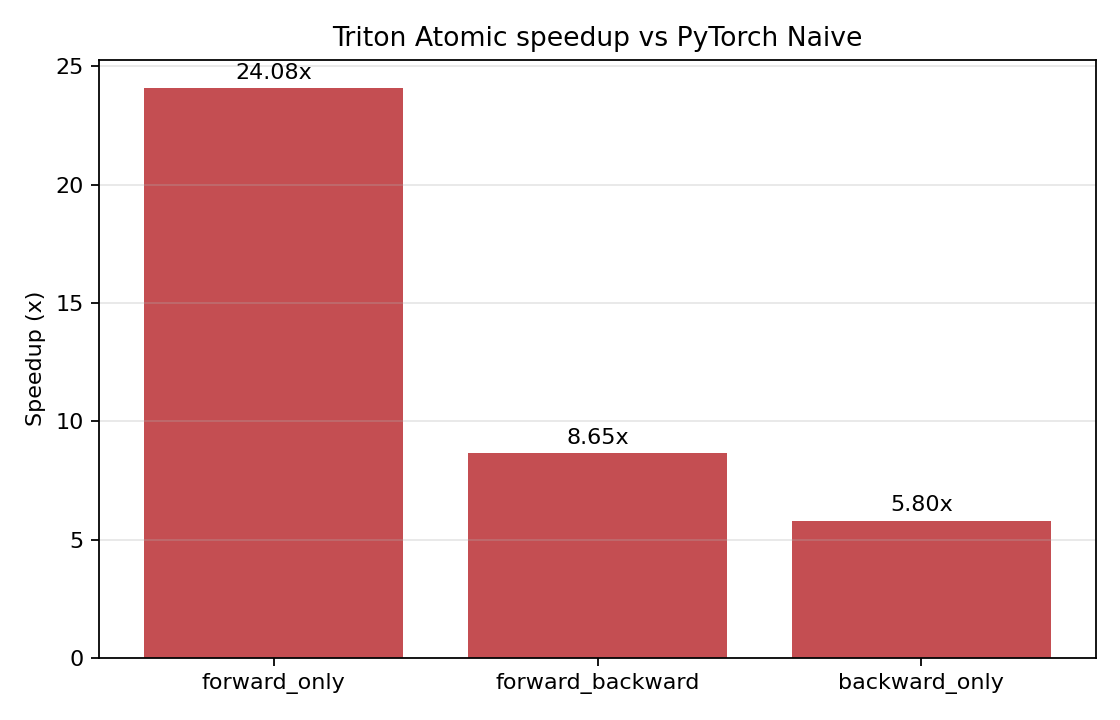
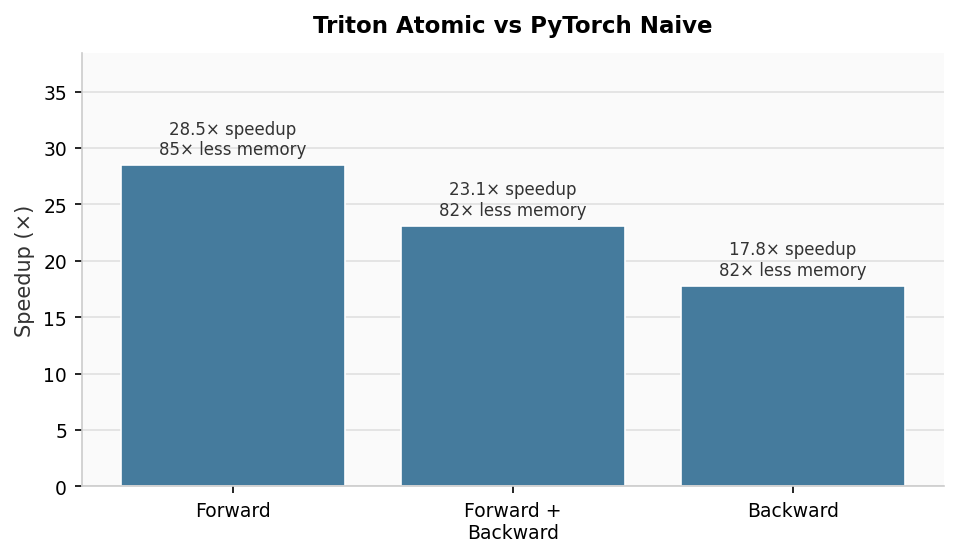
added exact quantity/log scale to plots and combined 3 plots to 1

diff --git a/plot_benchmark_results.py b/plot_benchmark_results.py
@@ -1,64 +1,238 @@
-"""Generate PNG charts for BENCHMARK_README.md from the reported T4 results."""
+"""Generate PNG charts for README.md from the reported T4 benchmark results."""
 
 import matplotlib.pyplot as plt
 import numpy as np
 
 MODES = ["forward_only", "forward_backward", "backward_only"]
-PYTORCH_MS = [38.26, 93.22, 55.51]
-TRITON_MS = [1.59, 10.78, 9.57]
-PYTORCH_GB = [2.04, 3.54, 3.54]
-TRITON_GB = [0.024, 0.044, 0.044]
-SPEEDUP = [24.08, 8.65, 5.80]
+MODE_LABELS = ["Forward", "Forward +\nBackward", "Backward"]
+PYTORCH_MS = [38.2578, 93.2606, 55.3403]
+TRITON_MS = [1.3437, 4.0357, 3.1075]
+PYTORCH_GB = [2.0374, 3.5432, 3.5432]
+TRITON_GB = [0.0239, 0.0435, 0.0435]
+SPEEDUP = [28.47, 23.11, 17.81]
+MEMORY_SAVING = [85.15, 81.53, 81.53]
+
+PYTORCH_COLOR = "#E76F51"
+TRITON_COLOR = "#2A9D8F"
+SPEEDUP_COLOR = "#457B9D"
+
+STYLE = {
+    "figure.facecolor": "white",
+    "axes.facecolor": "#FAFAFA",
+    "axes.edgecolor": "#CCCCCC",
+    "axes.labelcolor": "#333333",
+    "axes.titleweight": "bold",
+    "axes.titlesize": 11,
+    "axes.labelsize": 10,
+    "xtick.labelsize": 9,
+    "ytick.labelsize": 9,
+    "legend.fontsize": 9,
+    "grid.color": "#DDDDDD",
+    "grid.linestyle": "-",
+    "grid.linewidth": 0.8,
+    "font.family": "sans-serif",
+}
 
 
-def plot_grouped_bars(labels, series, ylabel, title, filename, colors):
+def _style_axes(ax):
+    ax.set_axisbelow(True)
+    ax.grid(axis="y", alpha=0.9)
+    ax.spines["top"].set_visible(False)
+    ax.spines["right"].set_visible(False)
+
+
+def _annotate_bars(ax, bars, values, fmt, y_offset=0.02, log_scale=False):
+    for bar, value in zip(bars, values):
+        height = bar.get_height()
+        if log_scale:
+            y = height * (1 + y_offset)
+        else:
+            y = height + y_offset
+        ax.text(
+            bar.get_x() + bar.get_width() / 2,
+            y,
+            fmt.format(value),
+            ha="center",
+            va="bottom",
+            fontsize=8,
+            color="#333333",
+        )
+
+
+def plot_grouped_bars(labels, series, ylabel, title, filename, colors, log_scale=False):
     x = np.arange(len(labels))
-    width = 0.35
-    fig, ax = plt.subplots(figsize=(8, 4.5))
+    width = 0.36
+    fig, ax = plt.subplots(figsize=(6.5, 3.8))
+    bars_by_series = []
     for idx, (name, values) in enumerate(series.items()):
         offset = (idx - 0.5) * width
-        ax.bar(x + offset, values, width, label=name, color=colors[idx])
+        bars = ax.bar(x + offset, values, width, label=name, color=colors[idx], edgecolor="white", linewidth=0.8)
+        bars_by_series.append((bars, values))
     ax.set_xticks(x)
     ax.set_xticklabels(labels)
     ax.set_ylabel(ylabel)
-    ax.set_title(title)
-    ax.legend()
-    ax.grid(axis="y", alpha=0.3)
+    ax.set_title(title, pad=10)
+    if log_scale:
+        ax.set_yscale("log")
+    _style_axes(ax)
+    ax.legend(frameon=True, facecolor="white", edgecolor="#DDDDDD")
+    for bars, values in bars_by_series:
+        fmt = "{:.2f}" if max(values) < 10 else "{:.1f}"
+        _annotate_bars(ax, bars, values, fmt, y_offset=0.08 if log_scale else 0.02, log_scale=log_scale)
     fig.tight_layout()
-    fig.savefig(filename, dpi=160)
+    fig.savefig(filename, dpi=150, bbox_inches="tight")
+    plt.close(fig)
+    print(f"Wrote {filename}")
+
+
+def plot_speedup(labels, values, memory_saving, filename):
+    fig, ax = plt.subplots(figsize=(6.5, 3.8))
+    bars = ax.bar(labels, values, color=SPEEDUP_COLOR, edgecolor="white", linewidth=0.8)
+    ax.set_ylabel("Speedup (×)")
+    ax.set_title("Triton Atomic vs PyTorch Naive", pad=10)
+    _style_axes(ax)
+    for bar, speedup, mem in zip(bars, values, memory_saving):
+        ax.text(
+            bar.get_x() + bar.get_width() / 2,
+            bar.get_height() + 0.6,
+            f"{speedup:.1f}× speedup\n{mem:.0f}× less memory",
+            ha="center",
+            va="bottom",
+            fontsize=8,
+            color="#333333",
+        )
+    ax.set_ylim(0, max(values) * 1.35)
+    fig.tight_layout()
+    fig.savefig(filename, dpi=150, bbox_inches="tight")
+    plt.close(fig)
+    print(f"Wrote {filename}")
+
+
+def _format_ms(value):
+    return f"{value:.1f} ms" if value >= 10 else f"{value:.2f} ms"
+
+
+def _format_gb(value):
+    return f"{value:.2f} GB" if value >= 0.1 else f"{value:.3f} GB"
+
+
+def _plot_combined_grouped(ax, x, width, pytorch_values, triton_values, title, ylabel, log_scale=False):
+    pytorch_bars = ax.bar(
+        x - width / 2,
+        pytorch_values,
+        width,
+        label="PyTorch Naive",
+        color=PYTORCH_COLOR,
+        edgecolor="white",
+    )
+    triton_bars = ax.bar(
+        x + width / 2,
+        triton_values,
+        width,
+        label="Triton Atomic",
+        color=TRITON_COLOR,
+        edgecolor="white",
+    )
+    if log_scale:
+        ax.set_yscale("log")
+    ax.set_title(title, pad=8)
+    ax.set_ylabel(ylabel)
+    _style_axes(ax)
+    ax.set_xticks(x)
+    ax.set_xticklabels(MODE_LABELS)
+    ax.legend(loc="upper left", frameon=True, facecolor="white", edgecolor="#DDDDDD", fontsize=8)
+
+    for bars, values, fmt in (
+        (pytorch_bars, pytorch_values, _format_ms if "ms" in ylabel else _format_gb),
+        (triton_bars, triton_values, _format_ms if "ms" in ylabel else _format_gb),
+    ):
+        for bar, value in zip(bars, values):
+            height = bar.get_height()
+            y = height * 1.15 if log_scale else height + (ax.get_ylim()[1] - ax.get_ylim()[0]) * 0.02
+            ax.text(
+                bar.get_x() + bar.get_width() / 2,
+                y,
+                fmt(value),
+                ha="center",
+                va="bottom",
+                fontsize=7.5,
+                color="#333333",
+            )
+
+
+def plot_combined_dashboard(filename):
+    fig, axes = plt.subplots(1, 3, figsize=(12, 4.2))
+    x = np.arange(len(MODE_LABELS))
+    width = 0.36
+
+    _plot_combined_grouped(
+        axes[0],
+        x,
+        width,
+        PYTORCH_MS,
+        TRITON_MS,
+        "Latency",
+        "Avg ms (log scale)",
+        log_scale=True,
+    )
+    _plot_combined_grouped(
+        axes[1],
+        x,
+        width,
+        PYTORCH_GB,
+        TRITON_GB,
+        "Peak memory",
+        "Peak GB (log scale)",
+        log_scale=True,
+    )
+
+    ax = axes[2]
+    bars = ax.bar(MODE_LABELS, SPEEDUP, color=SPEEDUP_COLOR, edgecolor="white")
+    ax.set_title("Speedup (×)", pad=8)
+    ax.set_ylabel("× faster")
+    _style_axes(ax)
+    for bar, value in zip(bars, SPEEDUP):
+        ax.text(
+            bar.get_x() + bar.get_width() / 2,
+            bar.get_height() + 0.5,
+            f"{value:.1f}×",
+            ha="center",
+            va="bottom",
+            fontsize=8,
+        )
+    ax.set_ylim(0, max(SPEEDUP) * 1.2)
+
+    fig.suptitle("Attention benchmark · Tesla T4 · fp16 · L=4096", fontsize=12, fontweight="bold", y=1.02)
+    fig.tight_layout()
+    fig.savefig(filename, dpi=150, bbox_inches="tight")
     plt.close(fig)
     print(f"Wrote {filename}")
 
 
 def main():
+    plt.rcParams.update(STYLE)
+
+    subtitle = "Tesla T4 · fp16 · Hq=16 · L=4096"
+
     plot_grouped_bars(
-        MODES,
+        MODE_LABELS,
         {"PyTorch Naive": PYTORCH_MS, "Triton Atomic": TRITON_MS},
         "Average latency (ms)",
-        "Attention benchmark latency (Tesla T4, fp16, Hq=16, Hkv=16, L=4096)",
+        f"Latency · {subtitle}",
         "benchmark_results_latency.png",
-        ["#4C72B0", "#55A868"],
+        [PYTORCH_COLOR, TRITON_COLOR],
+        log_scale=True,
     )
     plot_grouped_bars(
-        MODES,
+        MODE_LABELS,
         {"PyTorch Naive": PYTORCH_GB, "Triton Atomic": TRITON_GB},
         "Peak GPU memory (GB)",
-        "Attention benchmark peak memory (Tesla T4, fp16, Hq=16, Hkv=16, L=4096)",
+        f"Peak memory · {subtitle}",
         "benchmark_results_memory.png",
-        ["#4C72B0", "#55A868"],
+        [PYTORCH_COLOR, TRITON_COLOR],
     )
-
-    fig, ax = plt.subplots(figsize=(7, 4.5))
-    ax.bar(MODES, SPEEDUP, color="#C44E52")
-    ax.set_ylabel("Speedup (x)")
-    ax.set_title("Triton Atomic speedup vs PyTorch Naive")
-    ax.grid(axis="y", alpha=0.3)
-    for i, value in enumerate(SPEEDUP):
-        ax.text(i, value + 0.4, f"{value:.2f}x", ha="center", fontsize=10)
-    fig.tight_layout()
-    fig.savefig("benchmark_results_speedup.png", dpi=160)
-    plt.close(fig)
-    print("Wrote benchmark_results_speedup.png")
+    plot_speedup(MODE_LABELS, SPEEDUP, MEMORY_SAVING, "benchmark_results_speedup.png")
+    plot_combined_dashboard("benchmark_results_combined.png")
 
 
 if __name__ == "__main__":

diff --git a/README.md b/README.md
@@ -57,9 +57,7 @@ Benchmark config: `B=1`, `Hq=16`, `Hkv=16`, `L=4096`, `D=16`, `W=256`, `S=4`, `d
 
 ## Benchmark Plots
 
-![Latency comparison](benchmark_results_latency.png)
-
-![Peak memory comparison](benchmark_results_memory.png)
-
-![Speedup comparison](benchmark_results_speedup.png)
+<p align="center">
+  <img src="benchmark_results_combined.png" width="700" alt="Latency, peak memory, and speedup vs PyTorch naive (Tesla T4)" />
+</p>
 